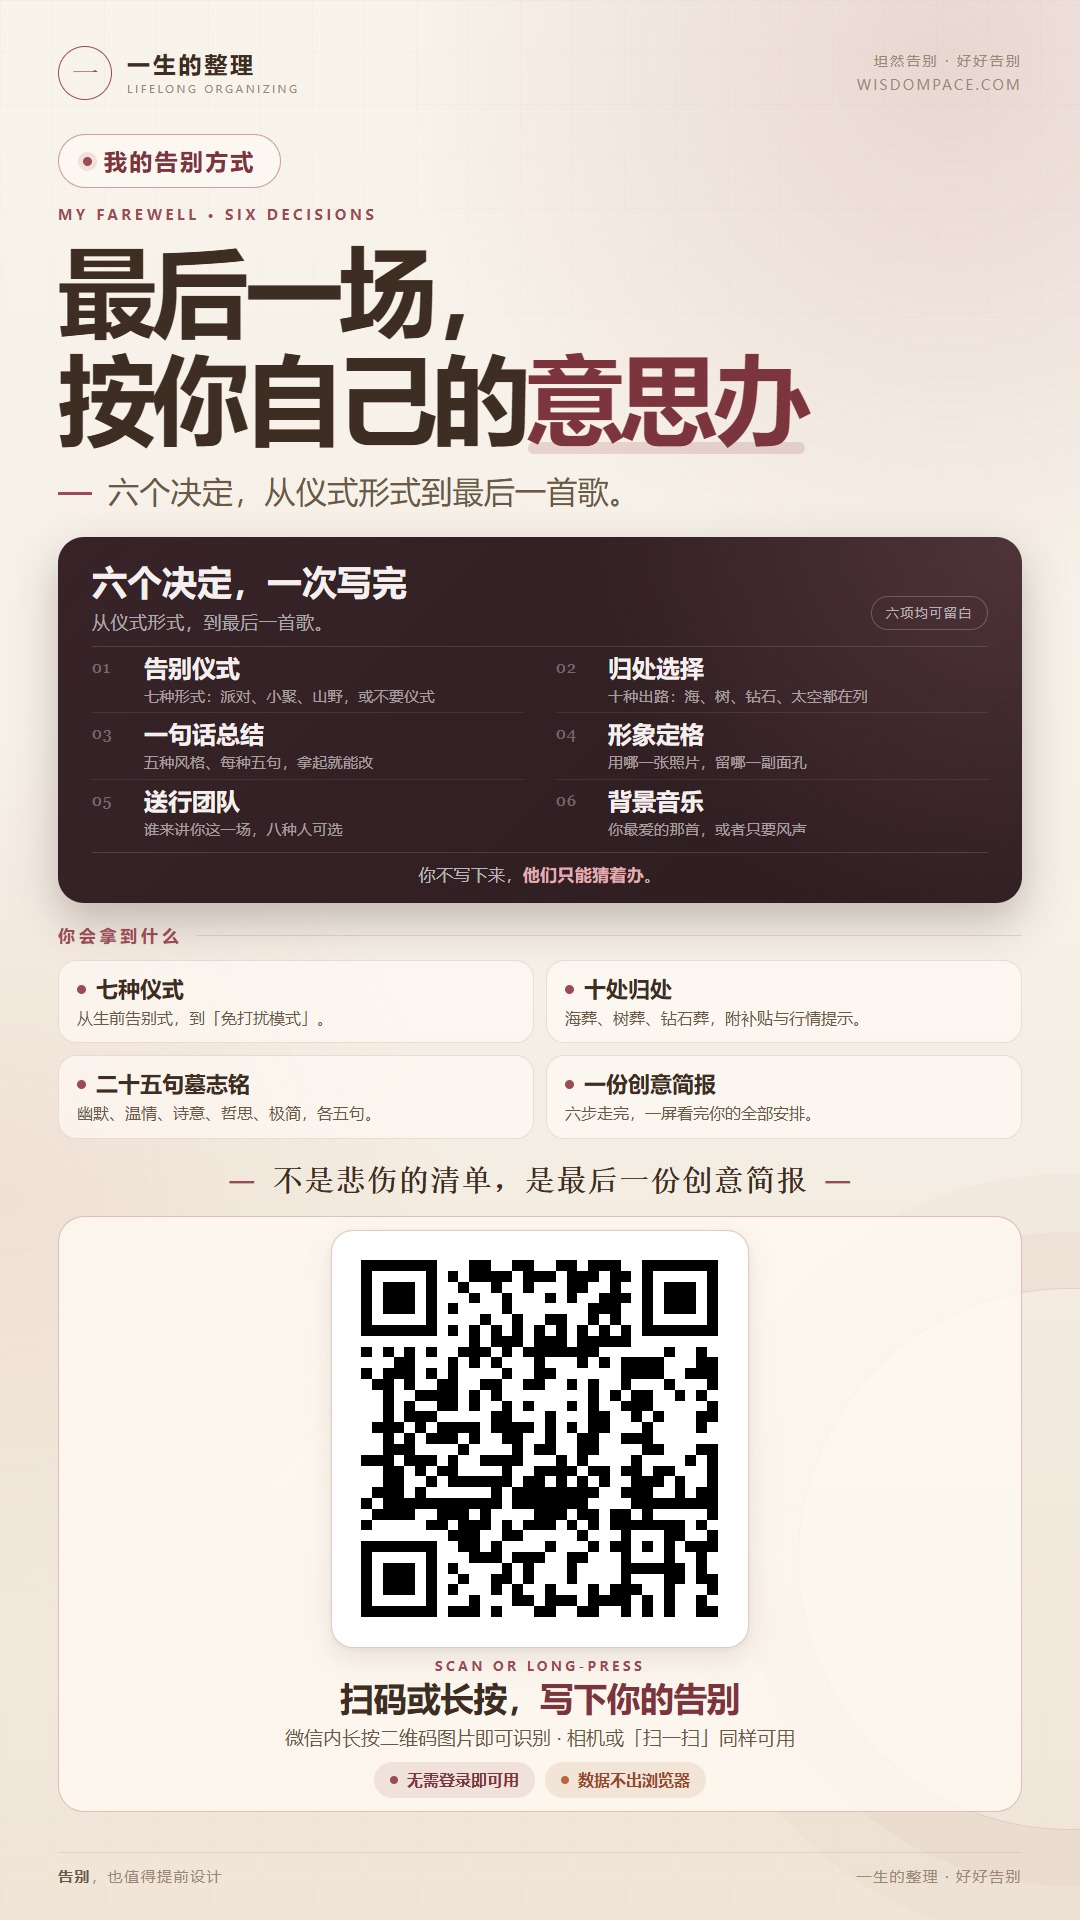
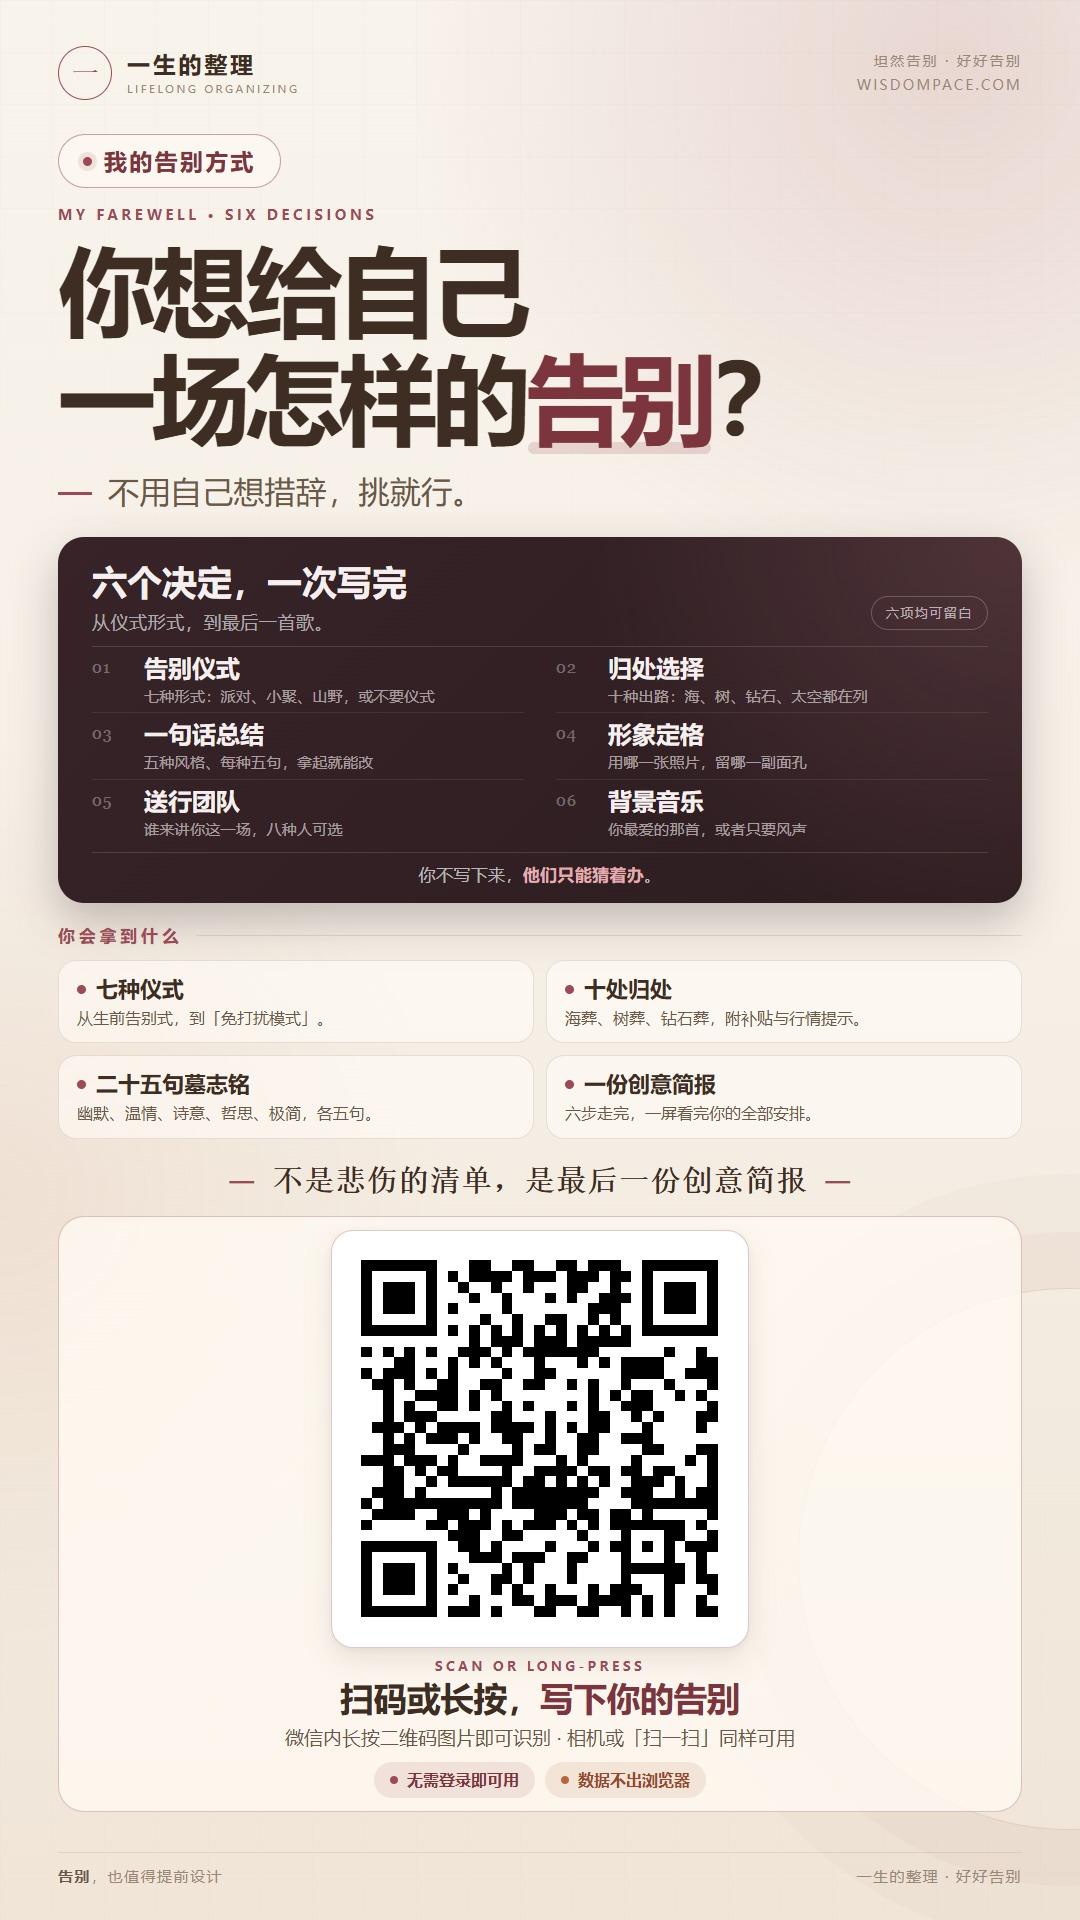
posters: 告别方式海报主标题改为问句「你想给自己一场怎样的告别？」
- h1 由陈述「最后一场，按你自己的意思办」改为问句，断行 5+8，与 4-1、4-2 的短长结构一致（实测 468 / 749px）
- 高亮从「意思办」移到「告别」，问号留在高亮之外走墨色
- slogan 换成答句「不用自己想措辞，挑就行。」——原句「六个决定，从仪式形式到最后一首歌」与卡头副标重复，且新 slogan 直接消解「我不会写」的顾虑
- 版式零位移：卡片 537→903、面板 1216→1812、页脚 1852，二维码仍逐字节 100.000% 一致

Changed region(s): [[0.0306, 0.125, 0.7639, 0.2812]]

diff --git a/posters/farewell-style-poster.html b/posters/farewell-style-poster.html
@@ -467,8 +467,8 @@
     <section class="hero">
       <div class="tool-chip"><span class="dot"></span>我的告别方式</div>
       <p class="kicker">MY FAREWELL · SIX DECISIONS</p>
-      <h1>最后一场，<br />按你自己的<span class="accent">意思办</span></h1>
-      <p class="slogan">六个决定，从仪式形式到最后一首歌。</p>
+      <h1>你想给自己<br />一场怎样的<span class="accent">告别</span>？</h1>
+      <p class="slogan">不用自己想措辞，挑就行。</p>
     </section>
 
     <section class="stage-card">
